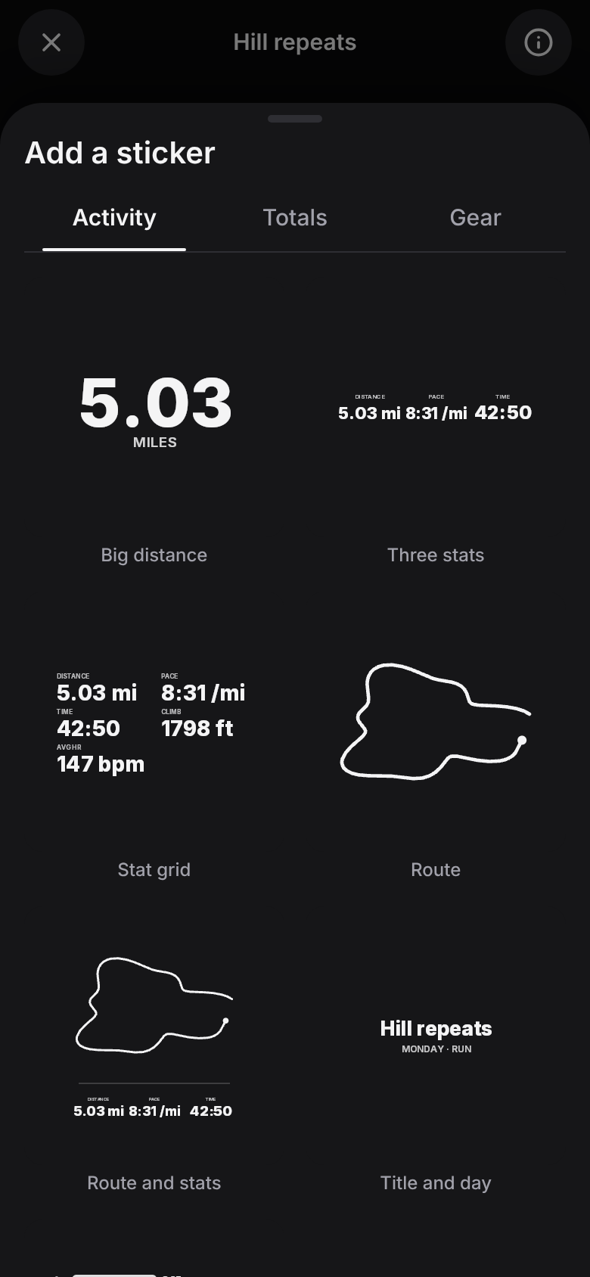
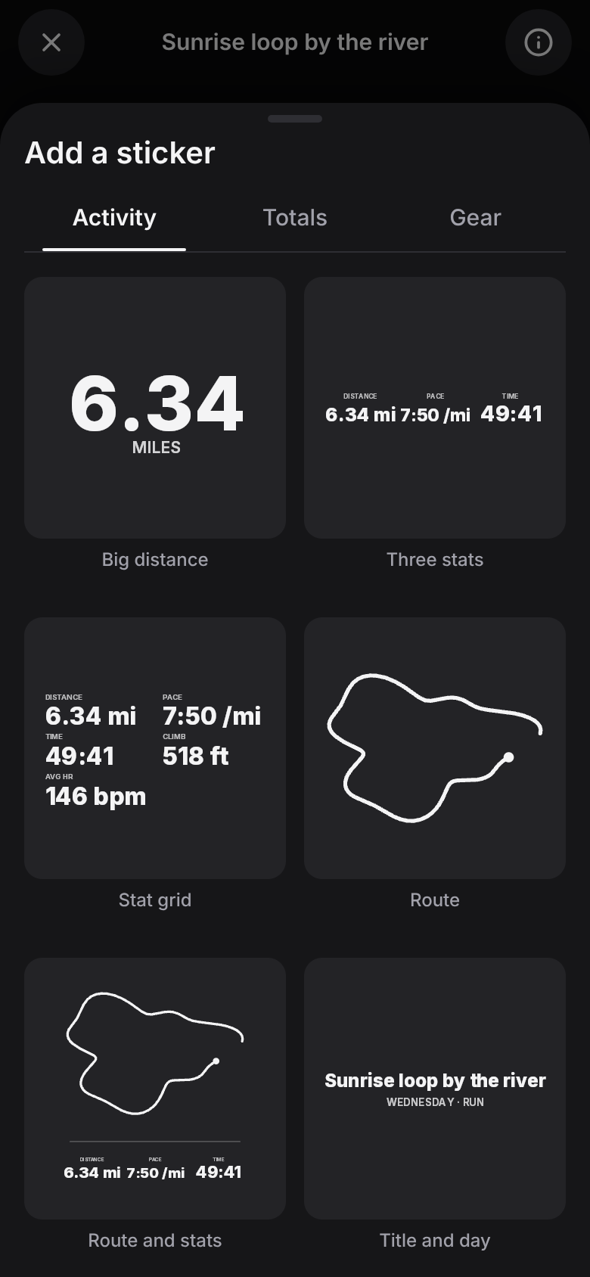
build: milestone 2 setup guide, dev build profiles, verification
eas.json (development/preview/production), expo-dev-client, .env.example,
SETUP.md for the Apple, Strava, Supabase and Meta accounts. Empty state
lists only the sources this build offers. Parity 75/100, all 13 must-haves.

Claude-Session: https://claude.ai/code/session_01J1Q6TSWAHX9Fh3vunj4Dd5

diff --git a/src/app/(tabs)/index.tsx b/src/app/(tabs)/index.tsx
@@ -9,6 +9,8 @@ import { formatDistance, formatDuration, formatDay, SOURCE_LABEL, unitLabel } fr
 import type { Activity, Units } from '@/domain/types';
 import { pickAndImport, summarise } from '@/features/importFiles';
 import { describeSync, syncAll, syncErrorMessage, useHealth, useStrava } from '@/features/sources';
+import { healthAvailable } from '@/integrations/health/healthkit';
+import { stravaConfigured } from '@/integrations/strava/config';
 import { colors, radius } from '@/theme';
 import { Button, EmptyState, IconButton, ListRow, Sheet, useToast } from '@/ui';
 
@@ -69,7 +71,7 @@ export default function ActivitiesScreen() {
           <EmptyState
             icon={FileUp}
             title="Bring in your first workout"
-            body="Sync from Apple Health or Strava, open a file from your watch, or type one in."
+            body={emptyBody()}
             actions={<AddButtons add={add} />}
           />
         </View>
@@ -92,6 +94,12 @@ export default function ActivitiesScreen() {
       </Sheet>
     </>
   );
+}
+
+function emptyBody(): string {
+  const sources = [healthAvailable() && 'Apple Health', stravaConfigured() && 'Strava'].filter(Boolean);
+  const sync = sources.length ? `Sync from ${sources.join(' or ')}, open` : 'Open';
+  return `${sync} a GPX, TCX or FIT file from your watch, or type one in.`;
 }
 
 function useAddActions(units: Units, done: () => void) {

diff --git a/SETUP.md b/SETUP.md
@@ -1,0 +1,156 @@
+# Setup: accounts and keys
+
+The app runs in **Expo Go** with no accounts at all: files, manual entry, the
+editor, Save and Share all work there. Apple Health, Strava and direct
+Instagram sharing each need one more thing. Do them in this order.
+
+Commands run in the project folder on your computer. `npx eas-cli@latest`
+runs Expo's build tool without installing it.
+
+---
+
+## 1. Expo account (free)
+
+Sign up at expo.dev, then log in from the project folder:
+
+```bash
+npx eas-cli@latest login
+```
+
+Link the project to your account (creates it on expo.dev):
+
+```bash
+npx eas-cli@latest init
+```
+
+## 2. Apple Developer Program ($99/year) and your app's ID
+
+Needed for Apple Health and for installing your own build on your iPhone.
+
+1. Enrol at developer.apple.com/programs.
+2. In `app.json`, change `ios.bundleIdentifier` from `com.example.myapp` to
+   your own reverse-domain ID, e.g. `com.yourname.storyapp`. It can't be
+   changed after the app is on the App Store.
+
+Register your iPhone so it can install development builds (open the link it
+prints on the phone):
+
+```bash
+npx eas-cli@latest device:create
+```
+
+Build the development app in Expo's cloud (no Mac needed; about 15 minutes):
+
+```bash
+npx eas-cli@latest build --profile development --platform ios
+```
+
+Install it from the link the build prints, then run the dev server and open
+the app on your phone:
+
+```bash
+npm start
+```
+
+Apple Health now works: Settings → Connections → Connect Apple Health.
+
+## 3. Strava API application (free)
+
+1. Go to strava.com/settings/api and create an application.
+   - **Category:** Visualizer
+   - **Website:** any page about the app (can be a placeholder for now)
+   - **Authorization Callback Domain:** `localhost`
+2. Note the **Client ID** (public) and **Client Secret** (private: it goes
+   only into the token function below, never into the app).
+3. New Strava apps can connect **one athlete** (you). When it works, request
+   more capacity from the same page before inviting testers.
+
+Read Strava's API agreement (strava.com/legal/api) before launch. In short:
+show a person's Strava data only to that person, don't call the app
+anything with "Strava" in it, use "Compatible with Strava" when you mention
+it, and delete Strava data when someone disconnects (the app already does).
+
+## 4. Supabase project for the token function (free tier)
+
+Strava's sign-in needs the Client Secret, which can't ship in the app. One
+small function holds it. It stores nothing.
+
+1. Create a project at supabase.com and note its **project ref** (in the URL).
+2. Install the Supabase CLI (supabase.com/docs/guides/cli), then:
+
+```bash
+npx supabase login
+```
+
+```bash
+npx supabase link --project-ref YOUR_PROJECT_REF
+```
+
+```bash
+npx supabase secrets set STRAVA_CLIENT_ID=YOUR_CLIENT_ID STRAVA_CLIENT_SECRET=YOUR_CLIENT_SECRET
+```
+
+The app calls the function without a Supabase login, so deploy it without
+JWT checks:
+
+```bash
+npx supabase functions deploy strava-token --no-verify-jwt
+```
+
+Its URL is `https://YOUR_PROJECT_REF.supabase.co/functions/v1/strava-token`.
+
+## 5. Meta app ID for Instagram Stories (free)
+
+1. Create an app at developers.facebook.com (type: "Other" → "Consumer").
+2. Copy its **App ID**. Instagram uses it to show which app the story came
+   from. No review is needed for sharing to Stories.
+
+## 6. Put the keys in the app
+
+For cloud builds, store them in Expo (once per environment you build):
+
+```bash
+npx eas-cli@latest env:set --name EXPO_PUBLIC_STRAVA_CLIENT_ID --value YOUR_CLIENT_ID --environment development --visibility plaintext
+```
+
+```bash
+npx eas-cli@latest env:set --name EXPO_PUBLIC_STRAVA_TOKEN_URL --value https://YOUR_PROJECT_REF.supabase.co/functions/v1/strava-token --environment development --visibility plaintext
+```
+
+```bash
+npx eas-cli@latest env:set --name EXPO_PUBLIC_META_APP_ID --value YOUR_META_APP_ID --environment development --visibility plaintext
+```
+
+Repeat with `--environment preview` and `--environment production` when you
+make those builds. For local development, copy `.env.example` to
+`.env.local` and fill in the same three values.
+
+These three values are not secrets (anyone can read them out of an app). The
+Strava Client Secret is the only secret, and it lives only in Supabase.
+
+Then rebuild the development app (step 2) so it picks up the new values and
+the Instagram URL scheme.
+
+## 7. Check it on your iPhone
+
+- [ ] Settings → Connect Apple Health → allow → your Watch runs appear
+- [ ] Settings → Connect to Strava → sign in → activities appear; the same run
+      from both shows once, with Strava's name
+- [ ] Pull down on the activity list → "Up to date"
+- [ ] Open a run → add a photo → Instagram → the story opens in Instagram
+- [ ] Save → the image is in Photos
+- [ ] Settings → Disconnect Strava → its activities are removed
+
+## Later: App Store
+
+```bash
+npx eas-cli@latest build --profile production --platform ios
+```
+
+```bash
+npx eas-cli@latest submit --platform ios
+```
+
+Apple asks for a privacy policy URL and a description of how Health data is
+used (read-only, stays on the phone, never used for ads). `/replica-launch`
+writes the listing.

diff --git a/replica/build-log.md b/replica/build-log.md
@@ -1,16 +1,17 @@
 # Build log
 
 One line per screen. Screenshots in `replica/clone-screens/` (590 px wide, the
-reference screenshots' width). Parity after milestone 1: **61.6 / 100**,
-must-haves **10 of 13** (`python3 .claude/skills/replica-diff/parity.py replica/features.csv`).
+reference screenshots' width). Parity: milestone 1 **61.6**, milestone 2
+**75.0 / 100**, must-haves **13 of 13**
+(`python3 .claude/skills/replica-diff/parity.py replica/features.csv`).
 
 | ID | screen | date | status | missing | harder than expected |
 | --- | --- | --- | --- | --- | --- |
-| S01 | Onboarding | 2026-11-18 | not started | whole screen (milestone 2, with Apple Health / Strava connect) | |
-| S02 | Import + manual entry | 2026-11-18 | partial | TCX and FIT; "Open in" from the Files app / share sheet | React Native has no DOMParser, so GPX is read by a small tested scanner |
+| S01 | Onboarding | 2026-11-18 | partial | no welcome flow; connect buttons live in the empty state and Settings | |
+| S02 | Import, connections, manual entry | 2026-11-18 | done | "Open in" from the Files app / share sheet | Strava's code exchange needs a client secret, so a tiny server function was unavoidable |
 | S03 | Activity list + detail | 2026-11-18 | done | swipe to delete | |
-| S04 | Story editor | 2026-11-18 | done | direct Instagram Stories share (M2); free text; layers list | Skia on web must load after its WebAssembly runtime, so the editor module is loaded lazily on web |
-| S05 | Sticker sheet | 2026-11-18 | partial | 13 more templates to reach 20; Totals and Gear tabs say "coming soon" | |
+| S04 | Story editor | 2026-11-18 | done | free text; layers list | Skia on web must load after its WebAssembly runtime, so the editor module is loaded lazily on web |
+| S05 | Sticker sheet | 2026-11-18 | done | Totals and Gear tabs say "coming soon" | 20 preview canvases exhausted the browser's WebGL contexts; now one canvas for the grid |
 | S06 | Sticker copy page | | not started | milestone 3 | |
 | S07 | Totals | | not started | milestone 3 | |
 | S08 | Gear | | not started | milestone 4 | |
@@ -30,3 +31,23 @@ must-haves **10 of 13** (`python3 .claude/skills/replica-diff/parity.py replica/
 - Photo picker, Save to Photos permission prompt, share sheet, file picker.
 - Pinch and twist on stickers (the browser test drives drag only).
 - Performance of re-rendering the canvas during gestures on older phones.
+
+## Milestone 2 (2026-11-18)
+
+- TCX and FIT import; device totals win over GPS recomputation.
+- Apple Health: read-only, anchored sync, deleted workouts removed, workout
+  time zones. Lazy-loaded so Expo Go still runs.
+- Strava: mobile OAuth, Keychain tokens, Supabase token function (stores
+  nothing), paged sync with overlap, 429 and revoked-access handling;
+  disconnect deletes Strava data as the API agreement requires.
+- The same workout from two sources is merged, not duplicated.
+- Direct Instagram Stories share with share-sheet fallback.
+- 20 templates. 71 tests. Generated iOS project checked: HealthKit
+  entitlement, permission texts, URL schemes.
+
+### Still needs an iPhone and the accounts (SETUP.md)
+
+- Apple Health permission prompt and real Watch data.
+- Strava sign-in round trip (callback domain `localhost`) and token function.
+- Instagram hand-off with a real Meta app id.
+- Everything in the milestone 1 "not verified yet" list.

diff --git a/README.md b/README.md
@@ -18,8 +18,10 @@ npm install
 npm start
 ```
 
-Scan the QR code with your iPhone camera to open the app in Expo Go. Apple
-Health needs a development build (milestone 2), not Expo Go.
+Scan the QR code with your iPhone camera to open the app in Expo Go.
+
+Apple Health, Strava and direct Instagram sharing need a development build
+and a few free or paid accounts: see **[SETUP.md](SETUP.md)**.
 
 No workout file handy? Settings -> Add sample activities.
 
@@ -61,7 +63,10 @@ src/app/          screens (expo-router; every file is a route)
 src/ui/           design-system components (Button, Sheet, TemplateTile, ...)
 src/domain/       activity model, GPX parsing, stats, formatting (no React)
 src/data/         storage: SQLite on device, memory on web and in tests
-src/editor/       story editor: templates, Skia scene, export
+src/editor/       story editor: templates, Skia scene, export, Instagram share
+src/integrations/ Apple Health and Strava
+src/features/     import and sync flows used by screens
+supabase/         the Strava token function (the only server code)
 src/theme/        generated tokens + helpers
 replica/          planning: recon, architecture, schema, design specs
 .claude/skills/   the replica-* skill pack (MIT, Jake Schincariol)
